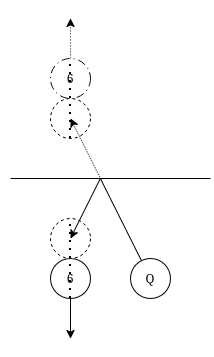
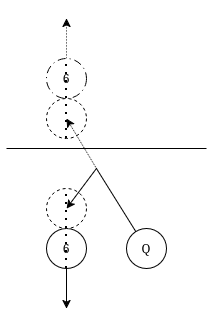
edits to readme

Changed region(s): [[0.1991, 0.0308, 0.8246, 0.9538], [0.3697, 0.1538, 0.3981, 0.1846]]

diff --git a/README.md b/README.md
@@ -1,10 +1,10 @@
 # gem5-benchmarking
 
-Honestly, not sure if I'm allowed to put my gem5 related stuff here because I'm in the course. Additionally, if you want to build my project, you can refer to the other repositories in this organization. This repo is just meant to be a place to store my benchmarking results and scripts.
+If you want to build my project, you can refer to the other repositories in this organization. This repo is just meant to be a place to store my simulation results and scripts. Additionally, given I'm in the course, I can't share the course related gem5 files. So here, I've only posted work that is completely my own, and not part of the course in any way, in accordance with the course's academic integrity policy. I even made sure to work from a publically available branch of gem5 from the course.
 
-Refer to my actual Rust code here: [https://github.com/bats-eightball/alfred](github.com/bats-eightball/alfred)
+Refer to my actual Rust code here: [github.com/bats-eightball/alfred](https://github.com/bats-eightball/alfred)
 
-Below is a summary of my work. I'm still new to gem5 so it was a very "put pre-made blocks together and script" kind of project. To be fair, anything more may be overkill for the use case. I'm happy that I actually get to work on cool things as part of the course though. 
+Below is a summary of my work. This project is definitely more of an application of gem5 to make software decisions than a use of benchmarking to make architectural decisions. I'm happy that I actually get to work on cool architectural things as part of the course though. 
 
 Anyways, happy reading! - Surya Turaga
 
